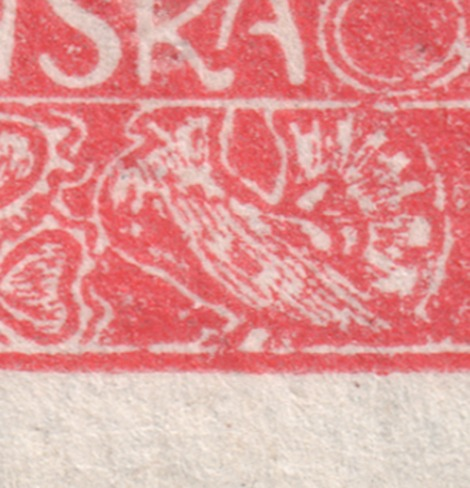
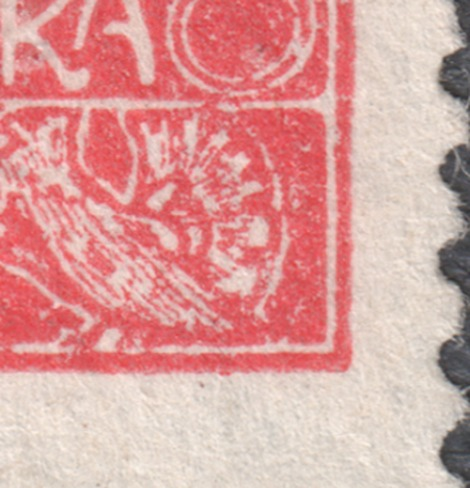
svetlina-index: spolehlivé nalezení rámových linek
Střednice se hledaly jako maximum barvy v pásu u okraje kresby. Pár set
pixelů dovnitř ale leží ornamentální páska, která má v průměru barvy víc
než tenká rámová linka, takže maximum u části kusů uteklo na ni. Rozteč
linek pak kolísala od 0,98 do 1,30 místo konstantních ~1,18 — což posunulo
výřez i ohnisko, a tím i index.

Linka se teď hledá jako první výrazný vrchol profilu při pohledu zvenčí
dovnitř. Rozteč je nově 1,168–1,195 (rozptyl 2,3 %) a výřezy sedí u všech
kusů stejně.

Index po opravě 0,47–0,90 na 17 kusech; čísla v článku srovnána.

diff --git a/15h/clanky.html b/15h/clanky.html
@@ -70,7 +70,7 @@
 
 <div class="section">
   <h2><span class="cs">Světlina na 20/V</span><span class="en">A white spot at 20/V</span></h2>
-  <p><span class="cs">Na 20. známkovém poli V. tiskové desky se u části známek neuzavírá vnější rám: spodní linka končí před pravým dolním rohem a roh zůstane otevřený. Měření na osmnácti kusech ukázalo spojitou škálu od otevřeného rohu k uzavřenému — tedy světlinu, která vzniká a sílí v průběhu tisku, ne jednorázové poškození desky. Doložena je v zoubkování B a C i na kusu s doplatním přetiskem 30 DOPLATIT.</span><span class="en">On field 20 of the fifth printing plate the outer frame fails to close on part of the stamps: the bottom line stops short of the bottom-right corner and the corner stays open. Measurement on eighteen copies showed a continuous scale from an open corner to a closed one — that is, a white spot that arises and grows during printing, not one-off damage to the plate. It is documented in perforations B and C and on a copy with the 30 DOPLATIT postage-due overprint.</span></p>
+  <p><span class="cs">Na 20. známkovém poli V. tiskové desky se u části známek neuzavírá vnější rám: spodní linka končí před pravým dolním rohem a roh zůstane otevřený. Měření na sedmnácti kusech ukázalo spojitou škálu od otevřeného rohu k uzavřenému — tedy světlinu, která vzniká a sílí v průběhu tisku, ne jednorázové poškození desky. Doložena je v zoubkování B a C i na kusu s doplatním přetiskem 30 DOPLATIT.</span><span class="en">On field 20 of the fifth printing plate the outer frame fails to close on part of the stamps: the bottom line stops short of the bottom-right corner and the corner stays open. Measurement on seventeen copies showed a continuous scale from an open corner to a closed one — that is, a white spot that arises and grows during printing, not one-off damage to the plate. It is documented in perforations B and C and on a copy with the 30 DOPLATIT postage-due overprint.</span></p>
   <figure><img src="assets/img/15h-20-V-detail-vada.jpg" alt="20/V – světlina v pravém dolním rohu rámu" loading="lazy" style="max-width:300px">
   <figcaption><span class="cs">Otevřený roh rámu na 20/V se světlinou</span><span class="en">The open frame corner on a 20/V with the white spot</span></figcaption></figure>
   <p><a href="clanky/15h-svetlina-20-5.html"><span class="cs">Celý článek</span><span class="en">Full article</span> &rarr;</a>

diff --git a/fr/15h/clanky.html b/fr/15h/clanky.html
@@ -70,7 +70,7 @@
 
 <div class="section">
   <h2>Éclaircie sur 20/V</h2>
-  <p>À la position 20 de la Ve planche d’impression, le cadre extérieur ne se referme pas sur une partie des timbres : le trait inférieur s’arrête avant l’angle inférieur droit et l’angle reste ouvert. La mesure sur dix-huit exemplaires a montré une échelle continue de l’angle ouvert à l’angle fermé — donc une éclaircie qui naît et se renforce au cours de l’impression, et non un endommagement ponctuel de la planche. Elle est documentée dans les dentelures B et C ainsi que sur un exemplaire portant la surcharge de taxe 30 DOPLATIT.</p>
+  <p>À la position 20 de la Ve planche d’impression, le cadre extérieur ne se referme pas sur une partie des timbres : le trait inférieur s’arrête avant l’angle inférieur droit et l’angle reste ouvert. La mesure sur dix-sept exemplaires a montré une échelle continue de l’angle ouvert à l’angle fermé — donc une éclaircie qui naît et se renforce au cours de l’impression, et non un endommagement ponctuel de la planche. Elle est documentée dans les dentelures B et C ainsi que sur un exemplaire portant la surcharge de taxe 30 DOPLATIT.</p>
   <figure><img src="../../15h/assets/img/15h-20-V-detail-vada.jpg" alt="20/V – éclaircie à l’angle inférieur droit du cadre" loading="lazy" style="max-width:300px">
   <figcaption>L’angle du cadre ouvert sur un 20/V avec l’éclaircie</figcaption></figure>
   <p><a href="clanky/15h-svetlina-20-5.html">Article complet &rarr;</a>

diff --git a/de/15h/clanky.html b/de/15h/clanky.html
@@ -70,7 +70,7 @@
 
 <div class="section">
   <h2>Lichtstelle auf 20/V</h2>
-  <p>Auf dem Markenfeld 20 der V. Druckplatte schließt sich bei einem Teil der Marken der äußere Rahmen nicht: die untere Linie endet vor der rechten unteren Ecke, und die Ecke bleibt offen. Die Messung an achtzehn Stücken ergab eine stetige Skala von der offenen zur geschlossenen Ecke — also eine Lichtstelle, die im Lauf des Drucks entsteht und zunimmt, keine einmalige Beschädigung der Platte. Belegt ist sie in den Zähnungen B und C sowie auf einem Stück mit dem Portoaufdruck 30 DOPLATIT.</p>
+  <p>Auf dem Markenfeld 20 der V. Druckplatte schließt sich bei einem Teil der Marken der äußere Rahmen nicht: die untere Linie endet vor der rechten unteren Ecke, und die Ecke bleibt offen. Die Messung an siebzehn Stücken ergab eine stetige Skala von der offenen zur geschlossenen Ecke — also eine Lichtstelle, die im Lauf des Drucks entsteht und zunimmt, keine einmalige Beschädigung der Platte. Belegt ist sie in den Zähnungen B und C sowie auf einem Stück mit dem Portoaufdruck 30 DOPLATIT.</p>
   <figure><img src="../../15h/assets/img/15h-20-V-detail-vada.jpg" alt="20/V – Lichtstelle in der rechten unteren Rahmenecke" loading="lazy" style="max-width:300px">
   <figcaption>Die offene Rahmenecke auf einem 20/V mit Lichtstelle</figcaption></figure>
   <p><a href="clanky/15h-svetlina-20-5.html">Ganzer Artikel &rarr;</a>

diff --git a/es/15h/clanky.html b/es/15h/clanky.html
@@ -70,7 +70,7 @@
 
 <div class="section">
   <h2>Clara en 20/V</h2>
-  <p>En la posición 20 de la V plancha de impresión, en una parte de los sellos el marco exterior no se cierra: el trazo inferior se detiene antes del ángulo inferior derecho y el ángulo queda abierto. La medición en dieciocho ejemplares mostró una escala continua del ángulo abierto al cerrado: es decir, una clara que nace y se refuerza durante la impresión, no un daño puntual de la plancha. Está documentada en los dentados B y C y en un ejemplar con la sobrecarga de tasa 30 DOPLATIT.</p>
+  <p>En la posición 20 de la V plancha de impresión, en una parte de los sellos el marco exterior no se cierra: el trazo inferior se detiene antes del ángulo inferior derecho y el ángulo queda abierto. La medición en diecisiete ejemplares mostró una escala continua del ángulo abierto al cerrado: es decir, una clara que nace y se refuerza durante la impresión, no un daño puntual de la plancha. Está documentada en los dentados B y C y en un ejemplar con la sobrecarga de tasa 30 DOPLATIT.</p>
   <figure><img src="../../15h/assets/img/15h-20-V-detail-vada.jpg" alt="20/V – clara en el ángulo inferior derecho del marco" loading="lazy" style="max-width:300px">
   <figcaption>El ángulo abierto del marco en un 20/V con la clara</figcaption></figure>
   <p><a href="clanky/15h-svetlina-20-5.html">Artículo completo &rarr;</a>

diff --git a/en/15h/clanky.html b/en/15h/clanky.html
@@ -70,7 +70,7 @@
 
 <div class="section">
   <h2>A white spot at 20/V</h2>
-  <p>On field 20 of the fifth printing plate the outer frame fails to close on part of the stamps: the bottom line stops short of the bottom-right corner and the corner stays open. Measurement on eighteen copies showed a continuous scale from an open corner to a closed one — that is, a white spot that arises and grows during printing, not one-off damage to the plate. It is documented in perforations B and C and on a copy with the 30 DOPLATIT postage-due overprint.</p>
+  <p>On field 20 of the fifth printing plate the outer frame fails to close on part of the stamps: the bottom line stops short of the bottom-right corner and the corner stays open. Measurement on seventeen copies showed a continuous scale from an open corner to a closed one — that is, a white spot that arises and grows during printing, not one-off damage to the plate. It is documented in perforations B and C and on a copy with the 30 DOPLATIT postage-due overprint.</p>
   <figure><img src="../../15h/assets/img/15h-20-V-detail-vada.jpg" alt="20/V – white spot at the bottom-right frame corner" loading="lazy" style="max-width:300px">
   <figcaption>The open frame corner on a 20/V with the white spot</figcaption></figure>
   <p><a href="clanky/15h-svetlina-20-5.html">Full article &rarr;</a>

diff --git a/fr/15h/clanky/15h-svetlina-20-5.html b/fr/15h/clanky/15h-svetlina-20-5.html
@@ -66,7 +66,7 @@ extérieur du cadre par rapport au même trait de cadre ailleurs sur le même ti
 autant d’encre dans l’angle que dans la zone de contrôle, une valeur plus basse qu’elle y manque. La normalisation à
 l’intérieur d’un même exemplaire est essentielle — elle élimine les écarts de saturation d’encre et de numérisation,
 qui sinon noieraient la mesure.</p>
-<figure><img src="../../../15h/assets/img/15h-20-V-rada.jpg" alt="dix-huit exemplaires de 20/V classés selon l’indice d’éclaircie" loading="lazy" style="max-width:680px"><figcaption>Dix-huit exemplaires de 20/V de la bibliothèque d’étude, classés selon l’indice (0,49 – 1,04).</figcaption></figure>
+<figure><img src="../../../15h/assets/img/15h-20-V-rada.jpg" alt="dix-sept exemplaires de 20/V classés selon l’indice d’éclaircie" loading="lazy" style="max-width:680px"><figcaption>Dix-sept exemplaires de 20/V de la bibliothèque d’étude, classés selon l’indice (0,47 – 0,90).</figcaption></figure>
 
 <p>La série est continue — et non deux groupes séparés, « avec éclaircie » et « sans ». Le passage graduel d’un angle
 ouvert à un angle fermé est précisément ce que fait une éclaircie : elle naît et se renforce au cours de l’impression.

diff --git a/es/15h/clanky/15h-svetlina-20-5.html b/es/15h/clanky/15h-svetlina-20-5.html
@@ -65,7 +65,7 @@ del marco sí se deformó.</p>
 marco frente al mismo trazo del marco en otro lugar del mismo sello: un índice de 1,0 significa que en el ángulo hay
 tanta tinta como en la zona de control, y un valor menor, que falta. La normalización dentro de un mismo ejemplar es
 esencial: elimina las diferencias de saturación de tinta y de escaneado, que de otro modo ahogarían la medida.</p>
-<figure><img src="../../../15h/assets/img/15h-20-V-rada.jpg" alt="dieciocho ejemplares de 20/V ordenados por el índice de clara" loading="lazy" style="max-width:680px"><figcaption>Dieciocho ejemplares de 20/V de la biblioteca de estudio, ordenados por el índice (0,49 – 1,04).</figcaption></figure>
+<figure><img src="../../../15h/assets/img/15h-20-V-rada.jpg" alt="diecisiete ejemplares de 20/V ordenados por el índice de clara" loading="lazy" style="max-width:680px"><figcaption>Diecisiete ejemplares de 20/V de la biblioteca de estudio, ordenados por el índice (0,47 – 0,90).</figcaption></figure>
 
 <p>La serie es continua, no dos grupos separados, «con clara» y «sin ella». El paso gradual del ángulo abierto al
 cerrado es precisamente lo que hace una clara: nace y se refuerza durante la impresión. Un daño puntual de la plancha

diff --git a/de/15h/clanky/15h-svetlina-20-5.html b/de/15h/clanky/15h-svetlina-20-5.html
@@ -66,7 +66,7 @@ Rahmenecke vorhanden ist, gemessen an derselben Rahmenlinie an anderer Stelle de
 bedeutet, dass in der Ecke ebenso viel Farbe liegt wie in der Kontrollfläche, ein niedrigerer Wert, dass sie fehlt. Die
 Normierung innerhalb eines Stückes ist wesentlich — sie beseitigt Unterschiede in der Farbsättigung und im Scan, die
 die Messung sonst überdecken würden.</p>
-<figure><img src="../../../15h/assets/img/15h-20-V-rada.jpg" alt="achtzehn Stücke von 20/V nach dem Lichtstellen-Index geordnet" loading="lazy" style="max-width:680px"><figcaption>Achtzehn Stücke von 20/V aus der Studienbibliothek, nach dem Index geordnet (0,49 – 1,04).</figcaption></figure>
+<figure><img src="../../../15h/assets/img/15h-20-V-rada.jpg" alt="siebzehn Stücke von 20/V nach dem Lichtstellen-Index geordnet" loading="lazy" style="max-width:680px"><figcaption>Siebzehn Stücke von 20/V aus der Studienbibliothek, nach dem Index geordnet (0,47 – 0,90).</figcaption></figure>
 
 <p>Die Reihe ist stetig — nicht zwei getrennte Gruppen, „mit Lichtstelle“ und „ohne“. Der allmähliche Übergang von der
 offenen zur geschlossenen Ecke ist genau das, was eine Lichtstelle tut: sie entsteht und verstärkt sich im Lauf des

diff --git a/en/15h/clanky/15h-svetlina-20-5.html b/en/15h/clanky/15h-svetlina-20-5.html
@@ -63,7 +63,7 @@ protrusion on the frame edge really was deformed.</p>
 against the same frame line elsewhere on the same stamp: an index of 1.0 means there is as much ink in the corner as in
 the control area, a lower value that it is missing. Normalising within a single copy matters — it removes differences in
 ink saturation and in scanning that would otherwise swamp the measurement.</p>
-<figure><img src="../../../15h/assets/img/15h-20-V-rada.jpg" alt="eighteen copies of 20/V ordered by the white-spot index" loading="lazy" style="max-width:680px"><figcaption>Eighteen copies of 20/V from the study library ordered by index (0.49 – 1.04).</figcaption></figure>
+<figure><img src="../../../15h/assets/img/15h-20-V-rada.jpg" alt="seventeen copies of 20/V ordered by the white-spot index" loading="lazy" style="max-width:680px"><figcaption>Seventeen copies of 20/V from the study library ordered by index (0.47 – 0.90).</figcaption></figure>
 
 <p>The series is continuous — not two separate groups, “with the spot” and “without”. The gradual passage from an open
 corner to a closed one is exactly what a white spot does: it arises and grows in the course of printing. One-off damage

diff --git a/15h/scripts/svetlina-index.py b/15h/scripts/svetlina-index.py
@@ -77,27 +77,52 @@ def sklon(k, prah=60):
     return float(np.degrees(np.arctan(a)))
 
 
-def _strednice(k, od, do, osa, kolmo):
-    """Řádek (nebo sloupec) s nejvíc barvou v zadaném pásu = střed rámové linky."""
+def _prvni_vrchol(prof, prah_pomer=0.45):
+    """Index prvního výrazného vrcholu profilu při pohledu zvenčí dovnitř.
+
+    Rámovou linku nelze hledat jako maximum v pásu: pár set pixelů dovnitř
+    leží ornamentální páska, která má v průměru barvy víc než tenká linka,
+    a maximum uteče na ni. Zvenčí je ale rámová linka první barva, na kterou
+    se narazí.
+    """
+    if len(prof) == 0 or prof.max() <= 0:
+        return 0
+    prah = prah_pomer * prof.max()
+    i = 0
+    while i < len(prof) and prof[i] < prah:
+        i += 1
+    if i >= len(prof):
+        return int(np.argmax(prof))
+    while i + 1 < len(prof) and prof[i + 1] > prof[i]:   # doladit na vrchol
+        i += 1
+    return i
+
+
+def _linka(k, osa, zvenku, od, do, kolmo):
+    """Střednice a tloušťka vnější rámové linky v zadaném pásu."""
     a, b = kolmo
-    if osa == 'y':
-        pas = k[od:do, a:b].mean(axis=1)
-    else:
-        pas = k[a:b, od:do].mean(axis=0)
-    return od + int(np.argmax(pas))
+    od, do = max(0, od), min(k.shape[1] if osa == 'x' else k.shape[0], do)
+    pas = k[a:b, od:do].mean(axis=0) if osa == 'x' else k[od:do, a:b].mean(axis=1)
+    prof = pas[::-1] if zvenku == 'konec' else pas
+    i = _prvni_vrchol(prof)
+    j = (len(pas) - 1 - i) if zvenku == 'konec' else i
+    return od + j, _tloustka(pas, j)
 
 
 def ram(k):
-    """Střednice čtyř rámových linek: (x_levá, y_horní, x_pravá, y_dolní)."""
+    """Střednice a tloušťky čtyř vnějších rámových linek."""
     x0, y0, x1, y1 = _hruby_ram(k)
     w, h = x1 - x0, y1 - y0
-    dx, dy = int(w * 0.10), int(h * 0.10)
-    ax, bx = x0 + int(w * 0.25), x0 + int(w * 0.75)
-    ay, by = y0 + int(h * 0.25), y0 + int(h * 0.75)
-    return (_strednice(k, max(0, x0 - dx // 2), x0 + dx, 'x', (ay, by)),
-            _strednice(k, max(0, y0 - dy // 2), y0 + dy, 'y', (ax, bx)),
-            _strednice(k, x1 - dx, min(k.shape[1], x1 + dx // 2), 'x', (ay, by)),
-            _strednice(k, y1 - dy, min(k.shape[0], y1 + dy // 2), 'y', (ax, bx)))
+    rez = int(min(w, h) * 0.07)          # jak daleko dovnitř se smí hledat
+    ven = int(min(w, h) * 0.035)         # a jak daleko ven do papíru
+    ax, bx = x0 + int(w * 0.30), x0 + int(w * 0.70)
+    ay, by = y0 + int(h * 0.30), y0 + int(h * 0.70)
+    return {
+        'leva':  _linka(k, 'x', 'zacatek', x0 - ven, x0 + rez, (ay, by)),
+        'prava': _linka(k, 'x', 'konec',   x1 - rez, x1 + ven, (ay, by)),
+        'horni': _linka(k, 'y', 'zacatek', y0 - ven, y0 + rez, (ax, bx)),
+        'dolni': _linka(k, 'y', 'konec',   y1 - rez, y1 + ven, (ax, bx)),
+    }
 
 
 def srovnej(cesta):
@@ -111,7 +136,8 @@ def srovnej(cesta):
     if abs(uhel) > 0.05:
         im = im.rotate(uhel, resample=Image.BICUBIC, fillcolor=(255, 255, 255))
     k = _barva(im)
-    lx, ty, px, dy = ram(k)
+    L = ram(k)
+    lx, ty, px, dy = L['leva'][0], L['horni'][0], L['prava'][0], L['dolni'][0]
     w, h = px - lx, dy - ty
     okr = 0.12
     box = (lx - w * okr, ty - h * okr, px + w * okr, dy + h * okr)
@@ -140,22 +166,10 @@ def _tloustka(pas, stred):
 
 
 def _linky(k, okr):
-    """Střednice a tloušťky čtyř rámových linek na srovnané mřížce."""
     hh, ww = k.shape
     px = lambda v: (v + okr) / (1 + 2 * okr) * ww
     py = lambda v: (v + okr) / (1 + 2 * okr) * hh
-    a, b = int(py(0.25)), int(py(0.75))
-    c, d = int(px(0.25)), int(px(0.75))
-    out = {}
-    for jm, osa, stred in (('leva', 'x', px(0)), ('prava', 'x', px(1)),
-                           ('horni', 'y', py(0)), ('dolni', 'y', py(1))):
-        s0 = int(stred - (ww if osa == 'x' else hh) * 0.03)
-        s1 = int(stred + (ww if osa == 'x' else hh) * 0.03)
-        s0, s1 = max(0, s0), min(ww if osa == 'x' else hh, s1)
-        pas = k[a:b, s0:s1].mean(axis=0) if osa == 'x' else k[s0:s1, c:d].mean(axis=1)
-        i = int(np.argmax(pas))
-        out[jm] = (s0 + i, _tloustka(pas, i))
-    return out, px, py
+    return ram(k), px, py
 
 
 def index(k, okr, ohnisko):
